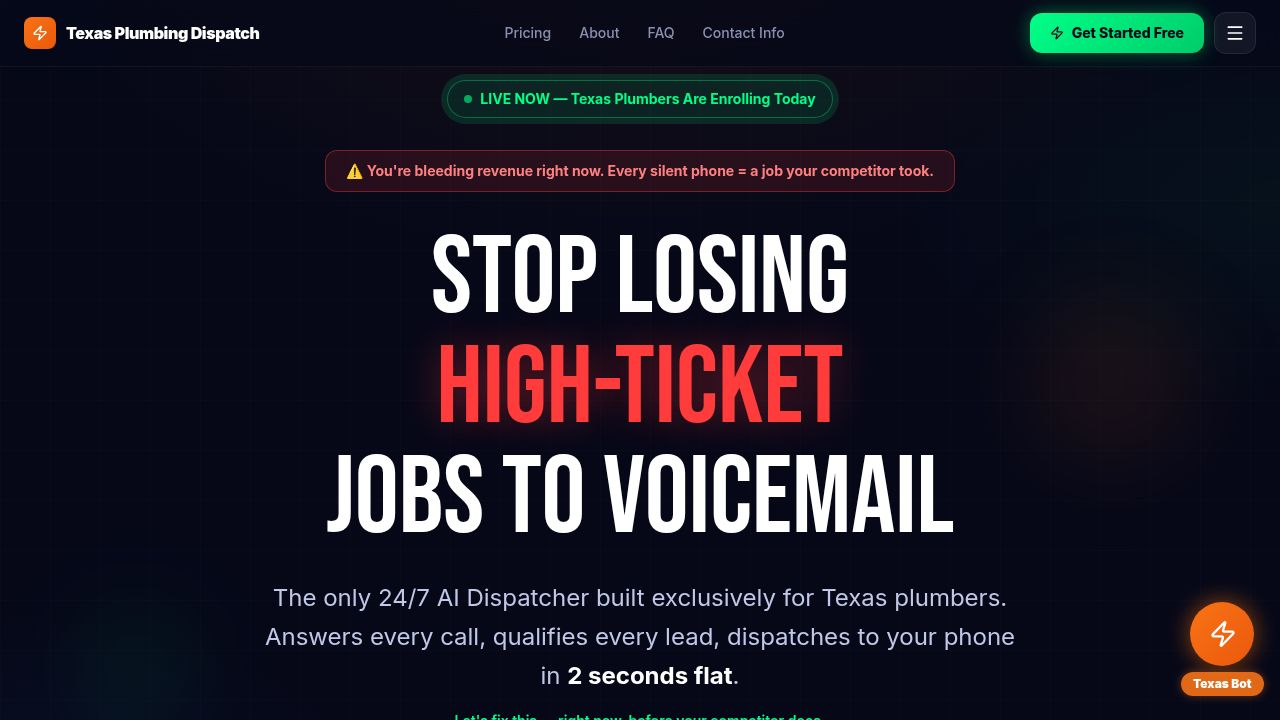
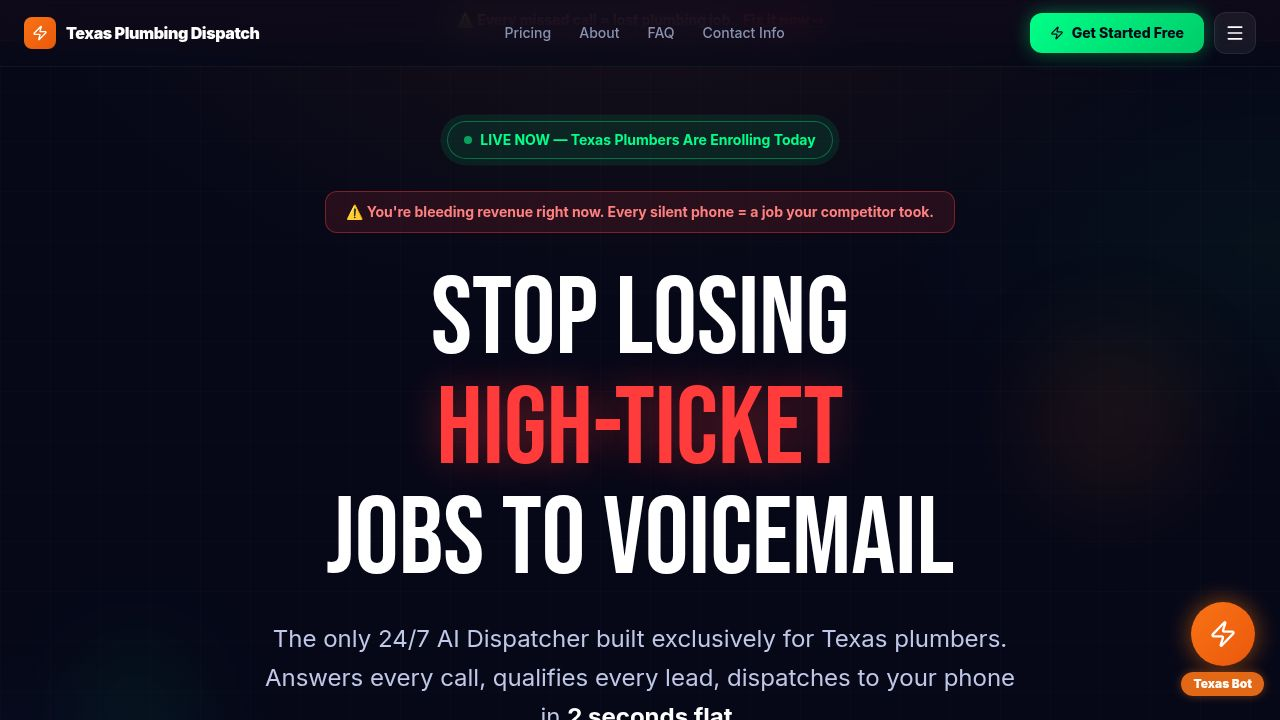
Add urgency bar and update lead submission form to use ZIP code
Update the LeadForm and TexasBot components to collect ZIP codes instead of service areas, and add a new urgency bar to the home page.

Replit-Commit-Author: Agent
Replit-Commit-Session-Id: 2914442c-3795-4d2d-a997-9843a926bc93
Replit-Commit-Checkpoint-Type: full_checkpoint
Replit-Commit-Event-Id: 1df458ca-111c-428a-a165-b4337ed004fa
Replit-Commit-Screenshot-Url: https://storage.googleapis.com/screenshot-production-us-central1/383444e8-951b-4a05-b8cf-df571bf1ebae/2914442c-3795-4d2d-a997-9843a926bc93/iB2VzkO
Replit-Helium-Checkpoint-Created: true

Changed region(s): [[0.2188, 0.0917, 0.7812, 1.0], [0.9375, 0.9472, 0.9688, 0.9778]]

diff --git a/artifacts/plumber-ai/src/components/LeadForm.tsx b/artifacts/plumber-ai/src/components/LeadForm.tsx
@@ -3,67 +3,96 @@ import { zodResolver } from "@hookform/resolvers/zod";
 import { z } from "zod";
 import { motion } from "framer-motion";
 import { useToast } from "@/hooks/use-toast";
-import { Loader2, ArrowRight, Shield, Zap } from "lucide-react";
+import { Loader2, ArrowRight, Shield, Zap, Lock } from "lucide-react";
 import { useState } from "react";
 
 const schema = z.object({
   firstName: z.string().min(1, "First name required"),
   lastName: z.string().min(1, "Last name required"),
-  company: z.string().min(1, "Company name required"),
   email: z.string().email("Enter a valid email"),
   phone: z.string().min(10, "Enter a valid phone number"),
-  serviceArea: z.string().min(1, "Service area required"),
-  missedCallsHandling: z.string().min(1, "Please select an option"),
+  company: z.string().min(1, "Company name required"),
+  zip: z.string().min(5, "Enter a valid ZIP code").max(10),
 });
 type FormData = z.infer<typeof schema>;
 
-const texasCities = ["Houston","Dallas","San Antonio","Austin","Fort Worth","El Paso","Arlington","Corpus Christi","Plano","Laredo","Lubbock","Garland","Irving","Amarillo","McKinney","Grand Prairie","Killeen","Frisco","Midland","Odessa","Waco","Abilene","Beaumont","Round Rock","Carrollton","Other"];
+const inputBase: React.CSSProperties = {
+  background: "rgba(255,255,255,0.05)",
+  border: "1px solid rgba(255,255,255,0.1)",
+  color: "white",
+  borderRadius: "12px",
+  outline: "none",
+  width: "100%",
+  padding: "14px 16px",
+  fontSize: "15px",
+  fontFamily: "inherit",
+  transition: "border-color 0.2s, box-shadow 0.2s",
+};
+const inputErr: React.CSSProperties = {
+  ...inputBase,
+  border: "1px solid rgba(255,59,59,0.6)",
+  boxShadow: "0 0 0 3px rgba(255,59,59,0.1)",
+};
 
 export default function LeadForm() {
   const { toast } = useToast();
   const [submitted, setSubmitted] = useState(false);
-  const { register, handleSubmit, reset, formState: { errors, isSubmitting } } = useForm<FormData>({ resolver: zodResolver(schema) });
+  const { register, handleSubmit, reset, formState: { errors, isSubmitting } } = useForm<FormData>({
+    resolver: zodResolver(schema),
+  });
 
   const onSubmit = async (data: FormData) => {
     try {
-      const res = await fetch("/api/leads", { method: "POST", headers: { "Content-Type": "application/json" }, body: JSON.stringify(data) });
+      const res = await fetch("/api/leads", {
+        method: "POST",
+        headers: { "Content-Type": "application/json" },
+        body: JSON.stringify({
+          firstName: data.firstName,
+          lastName: data.lastName,
+          company: data.company,
+          email: data.email,
+          phone: data.phone,
+          serviceArea: data.zip,
+          missedCallsHandling: "Enrolled via website registration form",
+        }),
+      });
       if (res.ok) {
         setSubmitted(true);
-        toast({ title: "Enrollment Activated!", description: "We'll contact you within 24 hours to get your trial running." });
+        toast({ title: "Enrollment Activated!", description: "We'll contact you within 24 hours to launch your trial." });
         reset();
       } else {
-        toast({ title: "Error", description: "Something went wrong. Email [email redacted] directly.", variant: "destructive" });
+        toast({ title: "Submission Error", description: "Something went wrong. Email [email redacted] directly.", variant: "destructive" });
       }
     } catch {
       toast({ title: "Connection Error", description: "Email [email redacted] directly.", variant: "destructive" });
     }
   };
 
-  const inputStyle = (hasError: boolean) => ({
-    background: "rgba(255,255,255,0.05)",
-    border: `1px solid ${hasError ? "rgba(255,59,59,0.6)" : "rgba(255,255,255,0.1)"}`,
-    color: "white",
-    borderRadius: "12px",
-    outline: "none",
-    transition: "border-color 0.2s",
-  });
-
   return (
     <section id="contact" className="py-24 px-4 relative">
       <div className="absolute inset-0 pointer-events-none" style={{ background: "radial-gradient(ellipse 80% 60% at 50% 50%, rgba(0,255,136,0.04) 0%, transparent 70%)" }} />
 
-      <div className="max-w-xl mx-auto relative">
-        <motion.div initial={{ opacity: 0, y: 40 }} whileInView={{ opacity: 1, y: 0 }} viewport={{ once: true }} transition={{ duration: 0.6 }} className="text-center mb-10">
-          <div className="inline-flex items-center gap-2 px-4 py-2 rounded-full text-sm font-bold mb-6 pulse-badge" style={{ background: "rgba(0,255,136,0.08)", border: "1px solid rgba(0,255,136,0.3)", color: "#00ff88" }}>
+      <div className="max-w-lg mx-auto relative">
+        <motion.div
+          initial={{ opacity: 0, y: 40 }}
+          whileInView={{ opacity: 1, y: 0 }}
+          viewport={{ once: true }}
+          transition={{ duration: 0.6 }}
+          className="text-center mb-10"
+        >
+          <div
+            className="inline-flex items-center gap-2 px-4 py-2 rounded-full text-sm font-bold mb-6 pulse-badge"
+            style={{ background: "rgba(0,255,136,0.08)", border: "1px solid rgba(0,255,136,0.3)", color: "#00ff88" }}
+          >
             <Shield className="w-4 h-4" />
-            No activation investment required to start
+            No activation investment to start
           </div>
           <h2 className="font-display text-[clamp(36px,7vw,68px)] text-white leading-tight mb-3">
-            GET STARTED<br />
-            <span style={{ color: "#00ff88" }}>IN 60 SECONDS</span>
+            REGISTRATION<br />
+            <span style={{ color: "#00ff88" }}>FORM</span>
           </h2>
           <p className="text-base" style={{ color: "#8892b0" }}>
-            Fill in your registration. We activate your 72-hour trial within 24 hours.
+            Get Started in 60 Seconds — 72 hours completely free.
           </p>
         </motion.div>
 
@@ -72,14 +101,17 @@ export default function LeadForm() {
             initial={{ opacity: 0, scale: 0.95 }}
             animate={{ opacity: 1, scale: 1 }}
             className="glass-card p-12 text-center"
-            style={{ border: "2px solid rgba(0,255,136,0.4)", boxShadow: "0 0 60px rgba(0,255,136,0.1)" }}
+            style={{ border: "2px solid rgba(0,255,136,0.4)", boxShadow: "0 0 60px rgba(0,255,136,0.12)" }}
           >
-            <div className="w-20 h-20 rounded-full flex items-center justify-center mx-auto mb-6" style={{ background: "rgba(0,255,136,0.15)", border: "2px solid rgba(0,255,136,0.4)" }}>
+            <div
+              className="w-20 h-20 rounded-full flex items-center justify-center mx-auto mb-6"
+              style={{ background: "rgba(0,255,136,0.15)", border: "2px solid rgba(0,255,136,0.4)" }}
+            >
               <Zap className="w-9 h-9" style={{ color: "#00ff88" }} />
             </div>
             <h3 className="font-display text-4xl text-white mb-4">ENROLLMENT ACTIVATED!</h3>
             <p className="text-base mb-6" style={{ color: "#8892b0" }}>
-              Your 72-hour trial is in motion. Watch your email — we'll be in touch within 24 hours to get you live.
+              Your 72-hour trial is live. Vic from Texas Plumbing Dispatch will reach out within 24 hours to get you fully set up.
             </p>
             <p className="text-sm" style={{ color: "#4b5563" }}>Questions? Email [email redacted]</p>
           </motion.div>
@@ -88,74 +120,118 @@ export default function LeadForm() {
             initial={{ opacity: 0, y: 30 }}
             whileInView={{ opacity: 1, y: 0 }}
             viewport={{ once: true }}
-            transition={{ duration: 0.6, delay: 0.2 }}
+            transition={{ duration: 0.6, delay: 0.15 }}
             onSubmit={handleSubmit(onSubmit)}
-            className="glass-card p-7 space-y-5"
-            style={{ border: "1px solid rgba(0,255,136,0.2)", boxShadow: "0 0 60px rgba(0,255,136,0.05)" }}
+            className="glass-card p-8 space-y-5"
+            style={{ border: "1px solid rgba(0,255,136,0.2)", boxShadow: "0 0 60px rgba(0,255,136,0.04), 0 20px 60px rgba(0,0,0,0.5)" }}
           >
+            {/* Row 1: First + Last name */}
             <div className="grid grid-cols-2 gap-4">
               <div>
-                <label className="block text-xs font-bold uppercase tracking-widest mb-2" style={{ color: "#8892b0" }}>First Name</label>
-                <input {...register("firstName")} placeholder="John" className="w-full px-4 py-3.5" style={inputStyle(!!errors.firstName)} data-testid="input-first-name" />
+                <label className="block text-xs font-bold uppercase tracking-widest mb-2" style={{ color: "#8892b0" }}>First Name *</label>
+                <input
+                  {...register("firstName")}
+                  placeholder="John"
+                  style={errors.firstName ? inputErr : inputBase}
+                  onFocus={(e) => { if (!errors.firstName) e.currentTarget.style.borderColor = "rgba(0,255,136,0.5)"; }}
+                  onBlur={(e) => { e.currentTarget.style.borderColor = errors.firstName ? "rgba(255,59,59,0.6)" : "rgba(255,255,255,0.1)"; }}
+                  data-testid="input-first-name"
+                />
                 {errors.firstName && <p className="text-xs mt-1.5" style={{ color: "#ff6b6b" }}>{errors.firstName.message}</p>}
               </div>
               <div>
-                <label className="block text-xs font-bold uppercase tracking-widest mb-2" style={{ color: "#8892b0" }}>Last Name</label>
-                <input {...register("lastName")} placeholder="Smith" className="w-full px-4 py-3.5" style={inputStyle(!!errors.lastName)} data-testid="input-last-name" />
+                <label className="block text-xs font-bold uppercase tracking-widest mb-2" style={{ color: "#8892b0" }}>Last Name *</label>
+                <input
+                  {...register("lastName")}
+                  placeholder="Smith"
+                  style={errors.lastName ? inputErr : inputBase}
+                  onFocus={(e) => { if (!errors.lastName) e.currentTarget.style.borderColor = "rgba(0,255,136,0.5)"; }}
+                  onBlur={(e) => { e.currentTarget.style.borderColor = errors.lastName ? "rgba(255,59,59,0.6)" : "rgba(255,255,255,0.1)"; }}
+                  data-testid="input-last-name"
+                />
                 {errors.lastName && <p className="text-xs mt-1.5" style={{ color: "#ff6b6b" }}>{errors.lastName.message}</p>}
               </div>
             </div>
 
+            {/* Row 2: Email */}
             <div>
-              <label className="block text-xs font-bold uppercase tracking-widest mb-2" style={{ color: "#8892b0" }}>Company Name</label>
-              <input {...register("company")} placeholder="Smith Plumbing LLC" className="w-full px-4 py-3.5" style={inputStyle(!!errors.company)} data-testid="input-company" />
-              {errors.company && <p className="text-xs mt-1.5" style={{ color: "#ff6b6b" }}>{errors.company.message}</p>}
-            </div>
-
-            <div>
-              <label className="block text-xs font-bold uppercase tracking-widest mb-2" style={{ color: "#8892b0" }}>Business Email</label>
-              <input {...register("email")} type="email" placeholder="[email redacted]" className="w-full px-4 py-3.5" style={inputStyle(!!errors.email)} data-testid="input-email" />
+              <label className="block text-xs font-bold uppercase tracking-widest mb-2" style={{ color: "#8892b0" }}>Business Email *</label>
+              <input
+                {...register("email")}
+                type="email"
+                placeholder="[email redacted]"
+                style={errors.email ? inputErr : inputBase}
+                onFocus={(e) => { if (!errors.email) e.currentTarget.style.borderColor = "rgba(0,255,136,0.5)"; }}
+                onBlur={(e) => { e.currentTarget.style.borderColor = errors.email ? "rgba(255,59,59,0.6)" : "rgba(255,255,255,0.1)"; }}
+                data-testid="input-email"
+              />
               {errors.email && <p className="text-xs mt-1.5" style={{ color: "#ff6b6b" }}>{errors.email.message}</p>}
             </div>
 
+            {/* Row 3: Phone */}
             <div>
-              <label className="block text-xs font-bold uppercase tracking-widest mb-2" style={{ color: "#8892b0" }}>Phone Number</label>
-              <input {...register("phone")} type="tel" placeholder="[phone redacted]" className="w-full px-4 py-3.5" style={inputStyle(!!errors.phone)} data-testid="input-phone" />
+              <label className="block text-xs font-bold uppercase tracking-widest mb-2" style={{ color: "#8892b0" }}>Phone Number *</label>
+              <input
+                {...register("phone")}
+                type="tel"
+                placeholder="(512) 555-0100"
+                style={errors.phone ? inputErr : inputBase}
+                onFocus={(e) => { if (!errors.phone) e.currentTarget.style.borderColor = "rgba(0,255,136,0.5)"; }}
+                onBlur={(e) => { e.currentTarget.style.borderColor = errors.phone ? "rgba(255,59,59,0.6)" : "rgba(255,255,255,0.1)"; }}
+                data-testid="input-phone"
+              />
               {errors.phone && <p className="text-xs mt-1.5" style={{ color: "#ff6b6b" }}>{errors.phone.message}</p>}
             </div>
 
+            {/* Row 4: Company */}
             <div>
-              <label className="block text-xs font-bold uppercase tracking-widest mb-2" style={{ color: "#8892b0" }}>Texas Service Area</label>
-              <select {...register("serviceArea")} className="w-full px-4 py-3.5 appearance-none" style={{ ...inputStyle(!!errors.serviceArea), background: "rgba(255,255,255,0.05)" }} data-testid="select-service-area">
-                <option value="" style={{ background: "#0b0e1f" }}>Select your city...</option>
-                {texasCities.map((c) => <option key={c} value={c} style={{ background: "#0b0e1f" }}>{c}</option>)}
-              </select>
-              {errors.serviceArea && <p className="text-xs mt-1.5" style={{ color: "#ff6b6b" }}>{errors.serviceArea.message}</p>}
+              <label className="block text-xs font-bold uppercase tracking-widest mb-2" style={{ color: "#8892b0" }}>Company Name *</label>
+              <input
+                {...register("company")}
+                placeholder="Smith Plumbing LLC"
+                style={errors.company ? inputErr : inputBase}
+                onFocus={(e) => { if (!errors.company) e.currentTarget.style.borderColor = "rgba(0,255,136,0.5)"; }}
+                onBlur={(e) => { e.currentTarget.style.borderColor = errors.company ? "rgba(255,59,59,0.6)" : "rgba(255,255,255,0.1)"; }}
+                data-testid="input-company"
+              />
+              {errors.company && <p className="text-xs mt-1.5" style={{ color: "#ff6b6b" }}>{errors.company.message}</p>}
             </div>
 
+            {/* Row 5: ZIP */}
             <div>
-              <label className="block text-xs font-bold uppercase tracking-widest mb-2" style={{ color: "#8892b0" }}>How are you currently handling missed calls?</label>
-              <select {...register("missedCallsHandling")} className="w-full px-4 py-3.5 appearance-none" style={{ ...inputStyle(!!errors.missedCallsHandling), background: "rgba(255,255,255,0.05)" }} data-testid="select-missed-calls-handling">
-                <option value="" style={{ background: "#0b0e1f" }}>Select...</option>
-                <option value="Letting it go to voicemail" style={{ background: "#0b0e1f" }}>Letting it go to voicemail</option>
-                <option value="Paying an expensive call center" style={{ background: "#0b0e1f" }}>Paying an expensive call center</option>
-                <option value="Answering them myself 24/7" style={{ background: "#0b0e1f" }}>Answering them myself 24/7</option>
-              </select>
-              {errors.missedCallsHandling && <p className="text-xs mt-1.5" style={{ color: "#ff6b6b" }}>{errors.missedCallsHandling.message}</p>}
+              <label className="block text-xs font-bold uppercase tracking-widest mb-2" style={{ color: "#8892b0" }}>ZIP Code *</label>
+              <input
+                {...register("zip")}
+                placeholder="78701"
+                maxLength={10}
+                style={errors.zip ? inputErr : inputBase}
+                onFocus={(e) => { if (!errors.zip) e.currentTarget.style.borderColor = "rgba(0,255,136,0.5)"; }}
+                onBlur={(e) => { e.currentTarget.style.borderColor = errors.zip ? "rgba(255,59,59,0.6)" : "rgba(255,255,255,0.1)"; }}
+                data-testid="input-zip"
+              />
+              {errors.zip && <p className="text-xs mt-1.5" style={{ color: "#ff6b6b" }}>{errors.zip.message}</p>}
             </div>
 
+            {/* Submit */}
             <button
               type="submit"
               disabled={isSubmitting}
               className="btn-green w-full flex items-center justify-center gap-2 py-5 rounded-xl font-black text-lg disabled:opacity-50 mt-2"
               data-testid="btn-submit-form"
             >
-              {isSubmitting ? <><Loader2 className="w-5 h-5 animate-spin" /> Activating...</> : <>Activate My 72-Hour Trial <ArrowRight className="w-5 h-5" /></>}
+              {isSubmitting
+                ? <><Loader2 className="w-5 h-5 animate-spin" /> Activating...</>
+                : <>Activate My 72-Hour Trial <ArrowRight className="w-5 h-5" /></>
+              }
             </button>
 
-            <p className="text-center text-xs pt-1" style={{ color: "#4b5563" }}>
-              No setup investment required to start. 72 hours completely free.
-            </p>
+            {/* Trust badge row */}
+            <div className="flex items-center justify-center gap-2 pt-1">
+              <Lock className="w-3.5 h-3.5" style={{ color: "#4b5563" }} />
+              <p className="text-xs text-center" style={{ color: "#4b5563" }}>
+                No activation investment required. Secure form. Cancel anytime.
+              </p>
+            </div>
           </motion.form>
         )}
       </div>

diff --git a/artifacts/plumber-ai/src/pages/home.tsx b/artifacts/plumber-ai/src/pages/home.tsx
@@ -54,6 +54,24 @@ function StickyCTA() {
 export default function Home() {
   return (
     <div className="min-h-screen" style={{ background: "#060818" }}>
+      {/* TOP URGENCY BAR */}
+      <div
+        className="w-full flex items-center justify-center gap-2 py-2.5 px-4 text-center text-sm font-bold"
+        style={{ background: "rgba(255,59,59,0.12)", borderBottom: "1px solid rgba(255,59,59,0.25)", color: "#ff8080" }}
+        data-testid="urgency-bar-top"
+      >
+        ⚠️ Every missed call = lost plumbing job.{" "}
+        <button
+          onClick={() => scrollTo("#contact")}
+          className="underline font-black transition-colors"
+          style={{ color: "#ff3b3b" }}
+          onMouseEnter={(e) => { e.currentTarget.style.color = "#ff6b6b"; }}
+          onMouseLeave={(e) => { e.currentTarget.style.color = "#ff3b3b"; }}
+        >
+          Fix it now →
+        </button>
+      </div>
+
       <NavMenu />
 
       {/* HOOK */}

diff --git a/artifacts/plumber-ai/src/components/TexasBot.tsx b/artifacts/plumber-ai/src/components/TexasBot.tsx
@@ -200,8 +200,8 @@ export default function TexasBot() {
           company: `${firstName}'s Plumbing Business`,
           email,
           phone,
-          serviceArea: "Texas",
-          missedCallsHandling: `${missedCalls} missed calls/week — $${jobValue}/job — ${callsPerWeek} total calls/week`,
+          serviceArea: `Texas — ${missedCalls} missed calls/wk, $${jobValue}/job, ${callsPerWeek} calls/wk`,
+          missedCallsHandling: "Enrolled via Texas Bot chat funnel",
         }),
       });
       if (res.ok) {